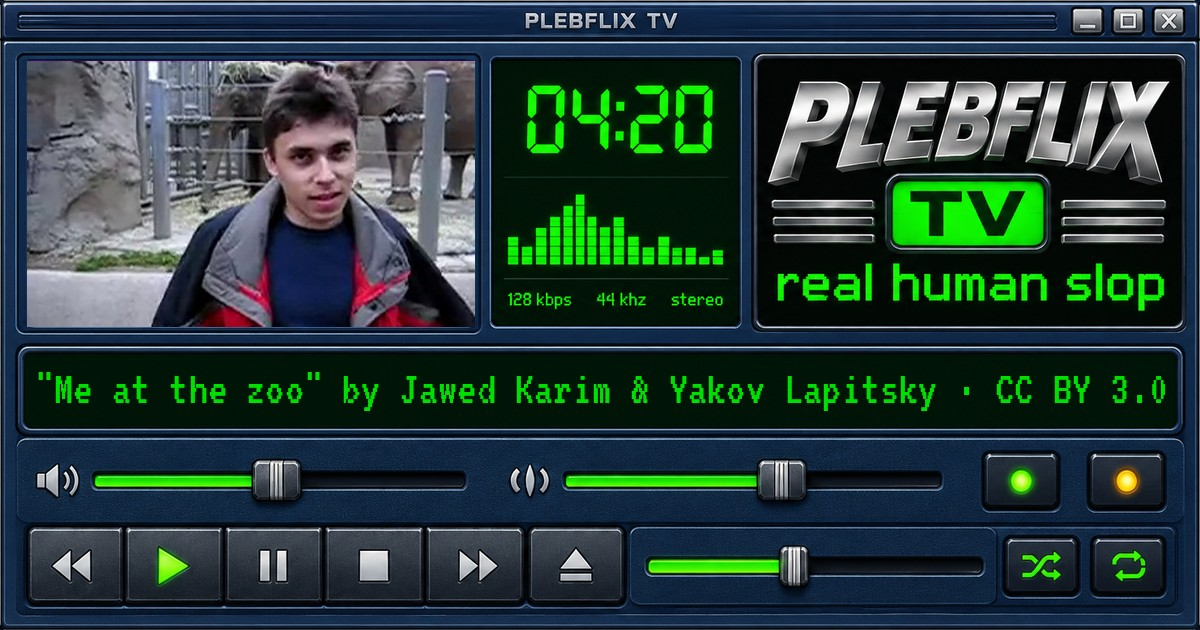
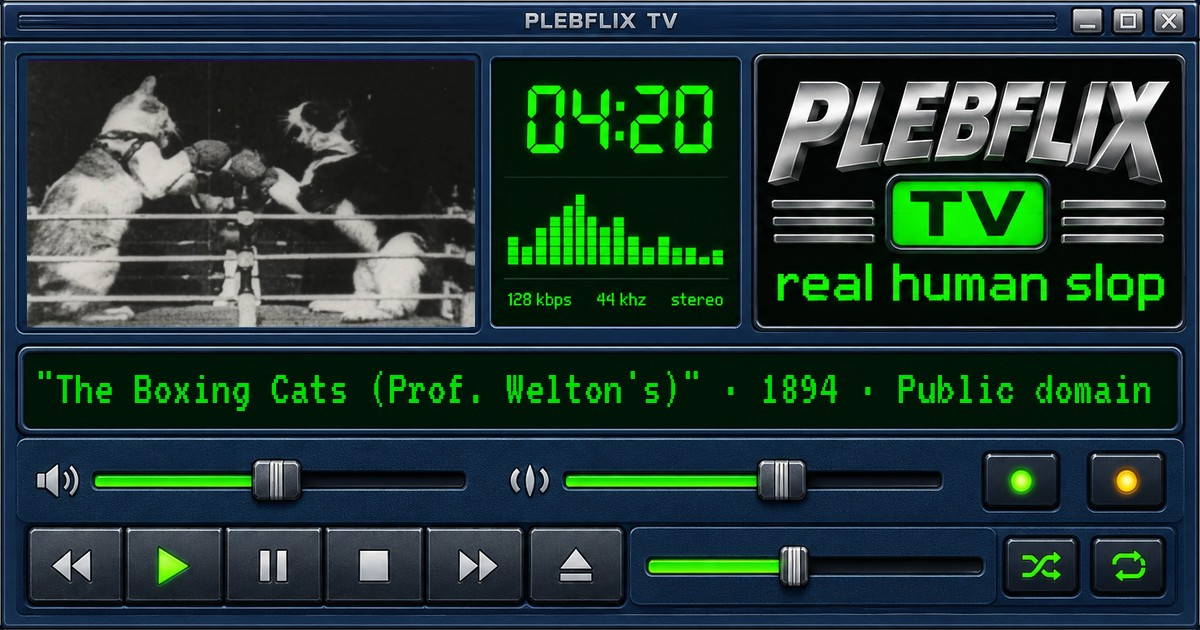
Ship the v9 Boxing Cats share card. (#7)
Replace the share images byte-for-byte and bump the share cache-bust to ?v=9, including /suomi. The alt text names The Boxing Cats (Prof. Welton's) (1894). The favicon swapper uses the same query so it does not rewrite tab icons back to ?v=5.

Changed region(s): [[0.0, 0.0905, 0.4008, 0.5429], [0.0308, 0.573, 0.9867, 0.6635]]

diff --git a/tests/suomi-page.test.js b/tests/suomi-page.test.js
@@ -10,10 +10,14 @@ test("index.html keeps one share block for the build to fill", () => {
   assert.equal(shell.split("<!-- share:begin -->").length, 2);
   assert.equal(shell.split("<!-- share:end -->").length, 2);
 });
+const ALT = "Plebflix TV: a retro media player playing &quot;The Boxing Cats (Prof. Welton's)&quot; (1894), two cats in boxing gloves sparring. Edison Manufacturing Co., public domain.";
+
 test("the main page gets the international card with the config's cache-bust", () => {
   const html = applyShareHead(shell, cfg, "intl");
   const v = `?v=${cfg.version}`;
   assert.ok(html.includes(`<meta property="og:image" content="https://plebflix.com/og-image.png${v}">`));
+  assert.ok(html.includes(`<meta property="og:image:alt" content="${ALT}">`));
+  assert.ok(html.includes(`<meta name="twitter:image:alt" content="${ALT}">`));
   assert.ok(html.includes(`<link id="favicon-svg" rel="icon" type="image/svg+xml" href="/favicons/live/favicon.svg${v}">`));
   assert.ok(html.includes('<meta name="theme-color" content="#0B0D10">'));
   assert.doesNotMatch(html, /og-image-suomi/);
@@ -23,6 +27,8 @@ test("the /suomi page shares the main card and icons but keeps its own URL, them
   const v = `?v=${cfg.version}`;
   assert.ok(html.includes(`<meta property="og:image" content="https://plebflix.com/og-image.png${v}">`));
   assert.ok(html.includes(`<meta name="twitter:image" content="https://plebflix.com/og-image.png${v}">`));
+  assert.ok(html.includes(`<meta property="og:image:alt" content="${ALT}">`));
+  assert.ok(html.includes(`<meta name="twitter:image:alt" content="${ALT}">`));
   assert.ok(html.includes('<meta name="twitter:card" content="summary_large_image">'));
   assert.ok(html.includes('<meta property="og:url" content="https://plebflix.com/suomi">'));
   assert.ok(html.includes('<link rel="canonical" href="https://plebflix.com/suomi">'));
@@ -32,8 +38,8 @@ test("the /suomi page shares the main card and icons but keeps its own URL, them
   assert.ok(html.includes('<html lang="fi">'));
   assert.doesNotMatch(html, /og-image-suomi|\/suomi\/favicon|\/suomi\/site\.webmanifest/);
 });
-test("the share block carries every tag of Iris's v5 head snippet", () => {
-  assert.equal(cfg.version, 5);
+test("the share block carries every tag of the v9 head snippet", () => {
+  assert.equal(cfg.version, 9);
   const head = renderShareHead(cfg, "intl");
   const snippet = readFileSync(new URL("./fixtures/v5-head-snippet.html", import.meta.url), "utf8");
   for (const tag of snippet.split("\n").map((l) => l.trim()).filter(Boolean)) assert.ok(head.includes(tag), tag);
@@ -41,7 +47,7 @@ test("the share block carries every tag of Iris's v5 head snippet", () => {
 });
 test("bumping the version re-busts every share URL", () => {
   const head = renderShareHead({ ...cfg, version: 4 }, "intl");
-  assert.doesNotMatch(head, /\?v=5/);
+  assert.doesNotMatch(head, /\?v=9/);
   assert.equal((head.match(/\?v=4/g) || []).length, 9);
 });
 

diff --git a/tests/fixtures/v5-head-snippet.html b/tests/fixtures/v5-head-snippet.html
@@ -1,18 +1,19 @@
-<link id="favicon-svg" rel="icon" type="image/svg+xml" href="/favicons/live/favicon.svg?v=5">
-<link id="favicon-png" rel="icon" type="image/png" sizes="32x32" href="/favicons/live/favicon-32.png?v=5">
-<link rel="icon" href="/favicon.ico?v=5" sizes="48x48 32x32 16x16">
-<link rel="apple-touch-icon" href="/apple-touch-icon.png?v=5">
-<script src="/favicons/favicon-state.js?v=5" defer></script>
-<link rel="manifest" href="/site.webmanifest?v=5">
+<link id="favicon-svg" rel="icon" type="image/svg+xml" href="/favicons/live/favicon.svg?v=9">
+<link id="favicon-png" rel="icon" type="image/png" sizes="32x32" href="/favicons/live/favicon-32.png?v=9">
+<link rel="icon" href="/favicon.ico?v=9" sizes="48x48 32x32 16x16">
+<link rel="apple-touch-icon" href="/apple-touch-icon.png?v=9">
+<script src="/favicons/favicon-state.js?v=9" defer></script>
+<link rel="manifest" href="/site.webmanifest?v=9">
 <meta name="theme-color" content="#0B0D10">
 <meta property="og:type" content="website">
 <meta property="og:site_name" content="Plebflix TV">
 <meta property="og:title" content="Plebflix TV · real human slop">
 <meta property="og:description" content="24/7 live TV of the early internet. Real human slop.">
 <meta property="og:url" content="https://plebflix.com/">
-<meta property="og:image" content="https://plebflix.com/og-image.png?v=5">
+<meta property="og:image" content="https://plebflix.com/og-image.png?v=9">
 <meta property="og:image:width" content="1200">
 <meta property="og:image:height" content="630">
-<meta property="og:image:alt" content="Plebflix TV classic-style media player window playing 'Me at the zoo' (Jawed Karim &amp; Yakov Lapitsky, CC BY 3.0)">
+<meta property="og:image:alt" content="Plebflix TV: a retro media player playing &quot;The Boxing Cats (Prof. Welton's)&quot; (1894), two cats in boxing gloves sparring. Edison Manufacturing Co., public domain.">
 <meta name="twitter:card" content="summary_large_image">
-<meta name="twitter:image" content="https://plebflix.com/og-image.png?v=5">
+<meta name="twitter:image" content="https://plebflix.com/og-image.png?v=9">
+<meta name="twitter:image:alt" content="Plebflix TV: a retro media player playing &quot;The Boxing Cats (Prof. Welton's)&quot; (1894), two cats in boxing gloves sparring. Edison Manufacturing Co., public domain.">

diff --git a/public/favicons/favicon-state.js b/public/favicons/favicon-state.js
@@ -1,13 +1,13 @@
 /* Plebflix TV · favicon state swapper (v4)
  * States: 'live' (red rec dot), 'paused' (amber bars), 'shuffle' (cyan crossed arrows), 'loop' (lavender circular arrow).
  * Expects in <head>:
- *   <link id="favicon-svg" rel="icon" type="image/svg+xml" href="/favicons/live/favicon.svg?v=5">
- *   <link id="favicon-png" rel="icon" type="image/png" sizes="32x32" href="/favicons/live/favicon-32.png?v=5">
- *   <link rel="icon" href="/favicon.ico?v=5" sizes="48x48 32x32 16x16">   (static, = live; not swapped)
+ *   <link id="favicon-svg" rel="icon" type="image/svg+xml" href="/favicons/live/favicon.svg?v=9">
+ *   <link id="favicon-png" rel="icon" type="image/png" sizes="32x32" href="/favicons/live/favicon-32.png?v=9">
+ *   <link rel="icon" href="/favicon.ico?v=9" sizes="48x48 32x32 16x16">   (static, = live; not swapped)
  */
 (function (w, d) {
   var BASE = '/favicons/';
-  var VER = '?v=5';
+  var VER = '?v=9';
   var STATES = ['live', 'paused', 'shuffle', 'loop'];
   var current = null;
 

diff --git a/README.md b/README.md
@@ -28,7 +28,7 @@ PLAY, PAUSE, REW, FWD, STOP, and REC sit on the deck. CH+ / CH− and the tapes 
 
 ## Share cards
 
-`share.config.json` is the one place for share cards, favicons, and theme-color tags. `lib/share-head.mjs` writes the `<!-- share:begin/end -->` block in `index.html` and the `/suomi` page from it. International and Suomi share Iris's v5 card. The tab icon follows the deck: live, paused, shuffle, and loop live under `public/favicons/<state>/`, and `public/favicons/favicon-state.js` swaps them. Suomi keeps its own URL, language, and theme color. Swap the files in `public/`, bump `version` so X, WhatsApp, and iMessage refetch, then build and deploy. Edit the config, not the generated tags.
+`share.config.json` is the one place for share cards, favicons, and theme-color tags. `lib/share-head.mjs` writes the `<!-- share:begin/end -->` block in `index.html` and the `/suomi` page from it. International and Suomi share the v9 Boxing Cats card. The tab icon follows the deck: live, paused, shuffle, and loop live under `public/favicons/<state>/`, and `public/favicons/favicon-state.js` swaps them. Suomi keeps its own URL, language, and theme color. Swap the files in `public/`, bump `version` so X, WhatsApp, and iMessage refetch, then build and deploy. Edit the config, not the generated tags.
 
 ## Deploy
 
